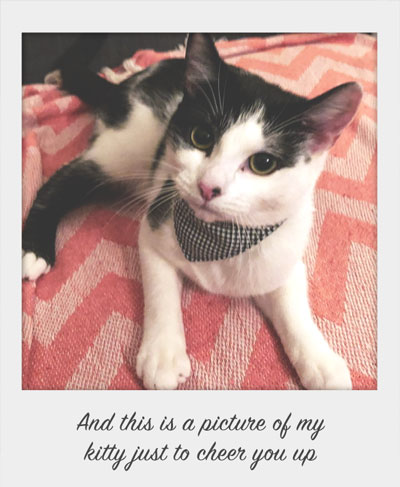
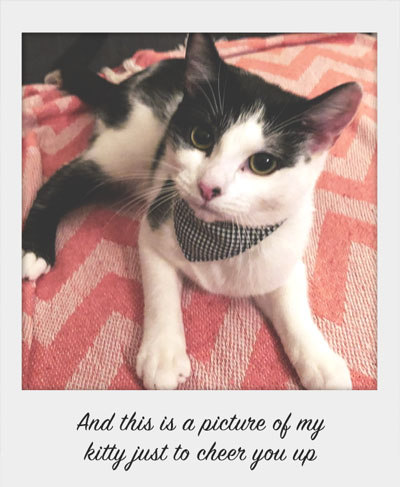
polaroid corr

diff --git a/index.html b/index.html
@@ -3,4 +3,4 @@ layout: home
 title: Bruno Borges
 subtitle: Hi There! Welcome to my professional webpage.<br><br> 
 ---
-<img src="https://github.com/borgesdesa/borgesdesa.github.io/blob/master/assets/img/polaroid2.jpg?raw=true" width="350" class="center">
+<img src="https://github.com/borgesdesa/borgesdesa.github.io/blob/master/assets/img/polaroid2.jpg?raw=true" width="300" class="center">
